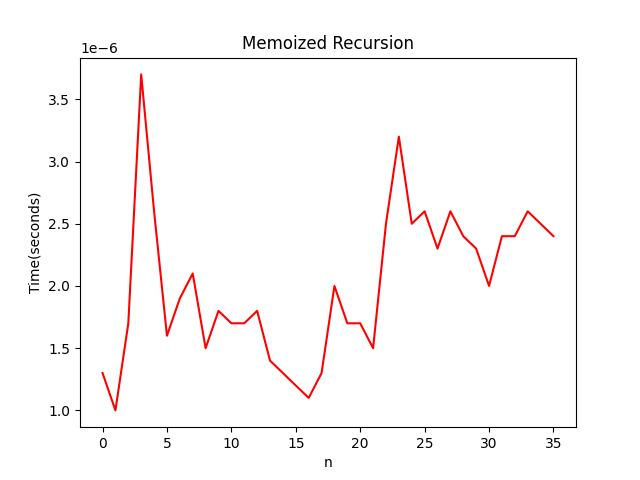
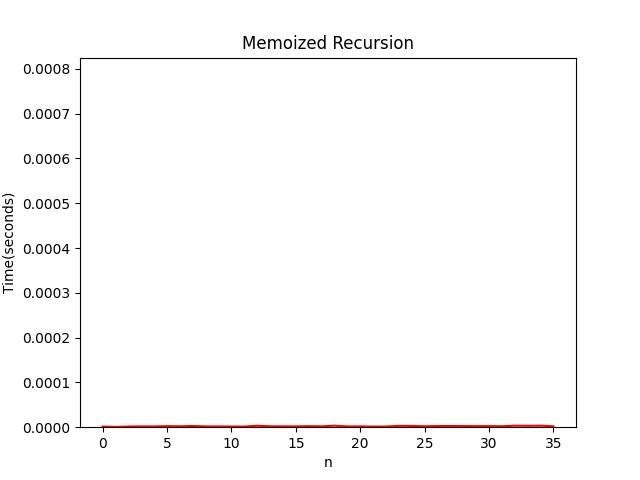
new changes

diff --git a/1/ex1.py b/1/ex1.py
@@ -20,16 +20,16 @@ def func(n):
     This is because divide-and-conquer requires the main problem to be broken down into subparts and solved recursively. 
 
     QUESTION 3: What is the time complexity?
-    Answer: O(2^n)
+    Answer: O(2^n) (exponential). Each call generates twice more calls every time it is called. Makes it much slower.
     '''
     #Question 4: Memoization
-def mem_func(n, cache = {}):
+def mem_func(n, cache = {}): #Dictionary
     if n == 0 or n == 1:
         return n
     if n not in cache:
         cache[n] = mem_func(n-1, cache) + mem_func(n-2, cache)
     return cache[n]
-    #Question 5: Time Complexity -> O(n)
+    #Question 5: Time Complexity -> O(n) (linear). Each fibonacci is calculated once and then is stored, which removes the need for extra calculations. 
 
     #Question6
 def timed():
@@ -63,6 +63,7 @@ def graph(original, mem):
     plt.xlabel("n")
     plt.ylabel("Time(seconds)")
     plt.title("Memoized Recursion")
+    plt.ylim(0e-5, 8.25e-4)
     plt.savefig("ex1.6.2.jpg")
     plt.show()
     
